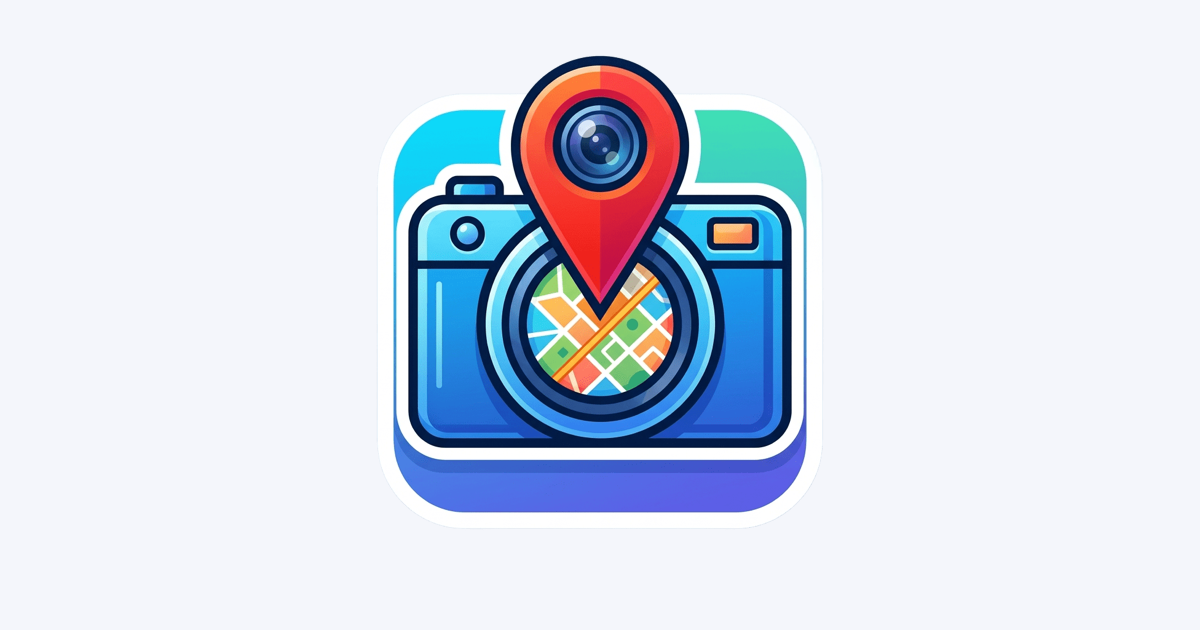
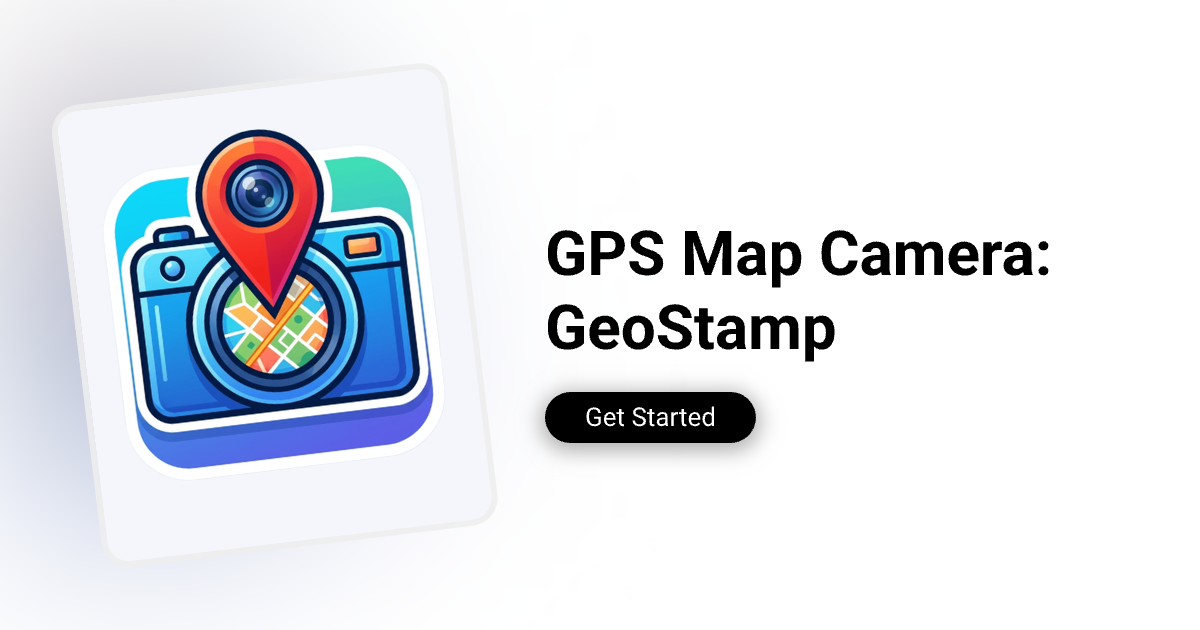
Use custom 1200x630 OG image; longer title; cache-bust image URL

diff --git a/index.html b/index.html
@@ -3,25 +3,25 @@
 <head>
   <meta charset="UTF-8">
   <meta name="viewport" content="width=device-width, initial-scale=1.0">
-  <title>GPS Map Camera: GeoStamp</title>
+  <title>GPS Map Camera: GeoStamp — GPS Photo Stamp for Android</title>
   <meta name="description" content="Android app that stamps your live GPS location, date and coordinates onto photos and videos.">
   <link rel="canonical" href="https://anweshan-coffee.github.io/gps-camera-site/">
   <!-- Open Graph (WhatsApp / Facebook / Telegram / LinkedIn) -->
   <meta property="og:type" content="website">
   <meta property="og:site_name" content="GPS Map Camera: GeoStamp">
-  <meta property="og:title" content="GPS Map Camera: GeoStamp">
+  <meta property="og:title" content="GPS Map Camera: GeoStamp — GPS Photo Stamp App">
   <meta property="og:description" content="Stamp live GPS location, date and coordinates onto your photos and videos. Free on Google Play.">
   <meta property="og:url" content="https://anweshan-coffee.github.io/gps-camera-site/">
-  <meta property="og:image" content="https://anweshan-coffee.github.io/gps-camera-site/og-image.png">
+  <meta property="og:image" content="https://anweshan-coffee.github.io/gps-camera-site/og-image.png?v=2">
   <meta property="og:image:type" content="image/png">
   <meta property="og:image:width" content="1200">
   <meta property="og:image:height" content="630">
   <meta property="og:image:alt" content="GPS Map Camera: GeoStamp app icon">
   <!-- Twitter / X -->
   <meta name="twitter:card" content="summary_large_image">
-  <meta name="twitter:title" content="GPS Map Camera: GeoStamp">
+  <meta name="twitter:title" content="GPS Map Camera: GeoStamp — GPS Photo Stamp App">
   <meta name="twitter:description" content="Stamp live GPS location, date and coordinates onto your photos and videos. Free on Google Play.">
-  <meta name="twitter:image" content="https://anweshan-coffee.github.io/gps-camera-site/og-image.png">
+  <meta name="twitter:image" content="https://anweshan-coffee.github.io/gps-camera-site/og-image.png?v=2">
   <style>
     body { margin:0; font-family:-apple-system,BlinkMacSystemFont,"Segoe UI",Roboto,Arial,sans-serif; color:#1a1a2e; line-height:1.6; background:#f6f8fb; }
     .wrap { max-width:720px; margin:0 auto; padding:64px 24px; }
